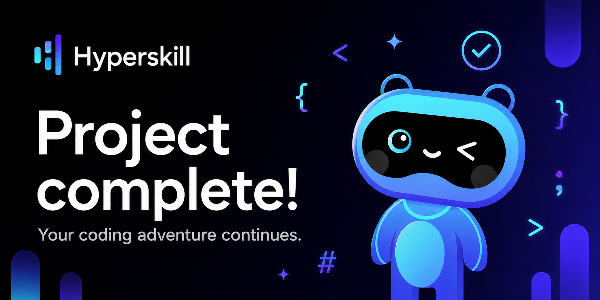
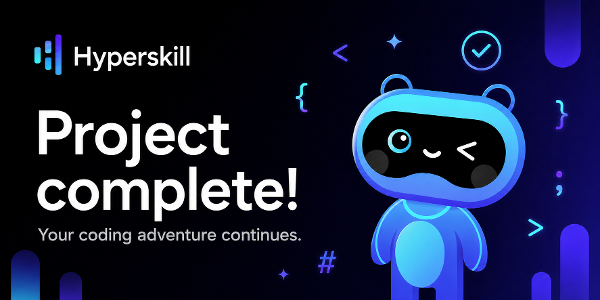
ALT-11032

diff --git a/intellij-plugin/hs-core/src/org/hyperskill/academy/socialMedia/SocialMediaUtils.kt b/intellij-plugin/hs-core/src/org/hyperskill/academy/socialMedia/SocialMediaUtils.kt
@@ -57,11 +57,12 @@ object SocialMediaUtils {
     "${achievementCore(solvedTask)} ${EduCoreBundle.message("social.media.learn.more.at", COURSES_DISPLAY_LINK)}"
 
   /**
-   * X share intent. The post text intentionally has no link because X renders the [SHARE_URL] from the `url` parameter.
+   * X share intent. The post text includes the "Learn more at ..." part (the same text shown in the dialog),
+   * and the tracked [SHARE_URL] is additionally passed via the `url` parameter.
    * https://twitter.com/intent/tweet?text=...&url=...
    */
   fun buildXShareUrl(solvedTask: Task): String {
-    val text = achievementCore(solvedTask)
+    val text = getDisplayMessage(solvedTask)
     return "https://twitter.com/intent/tweet?text=${encode(text)}&url=${encode(SHARE_URL)}"
   }
 